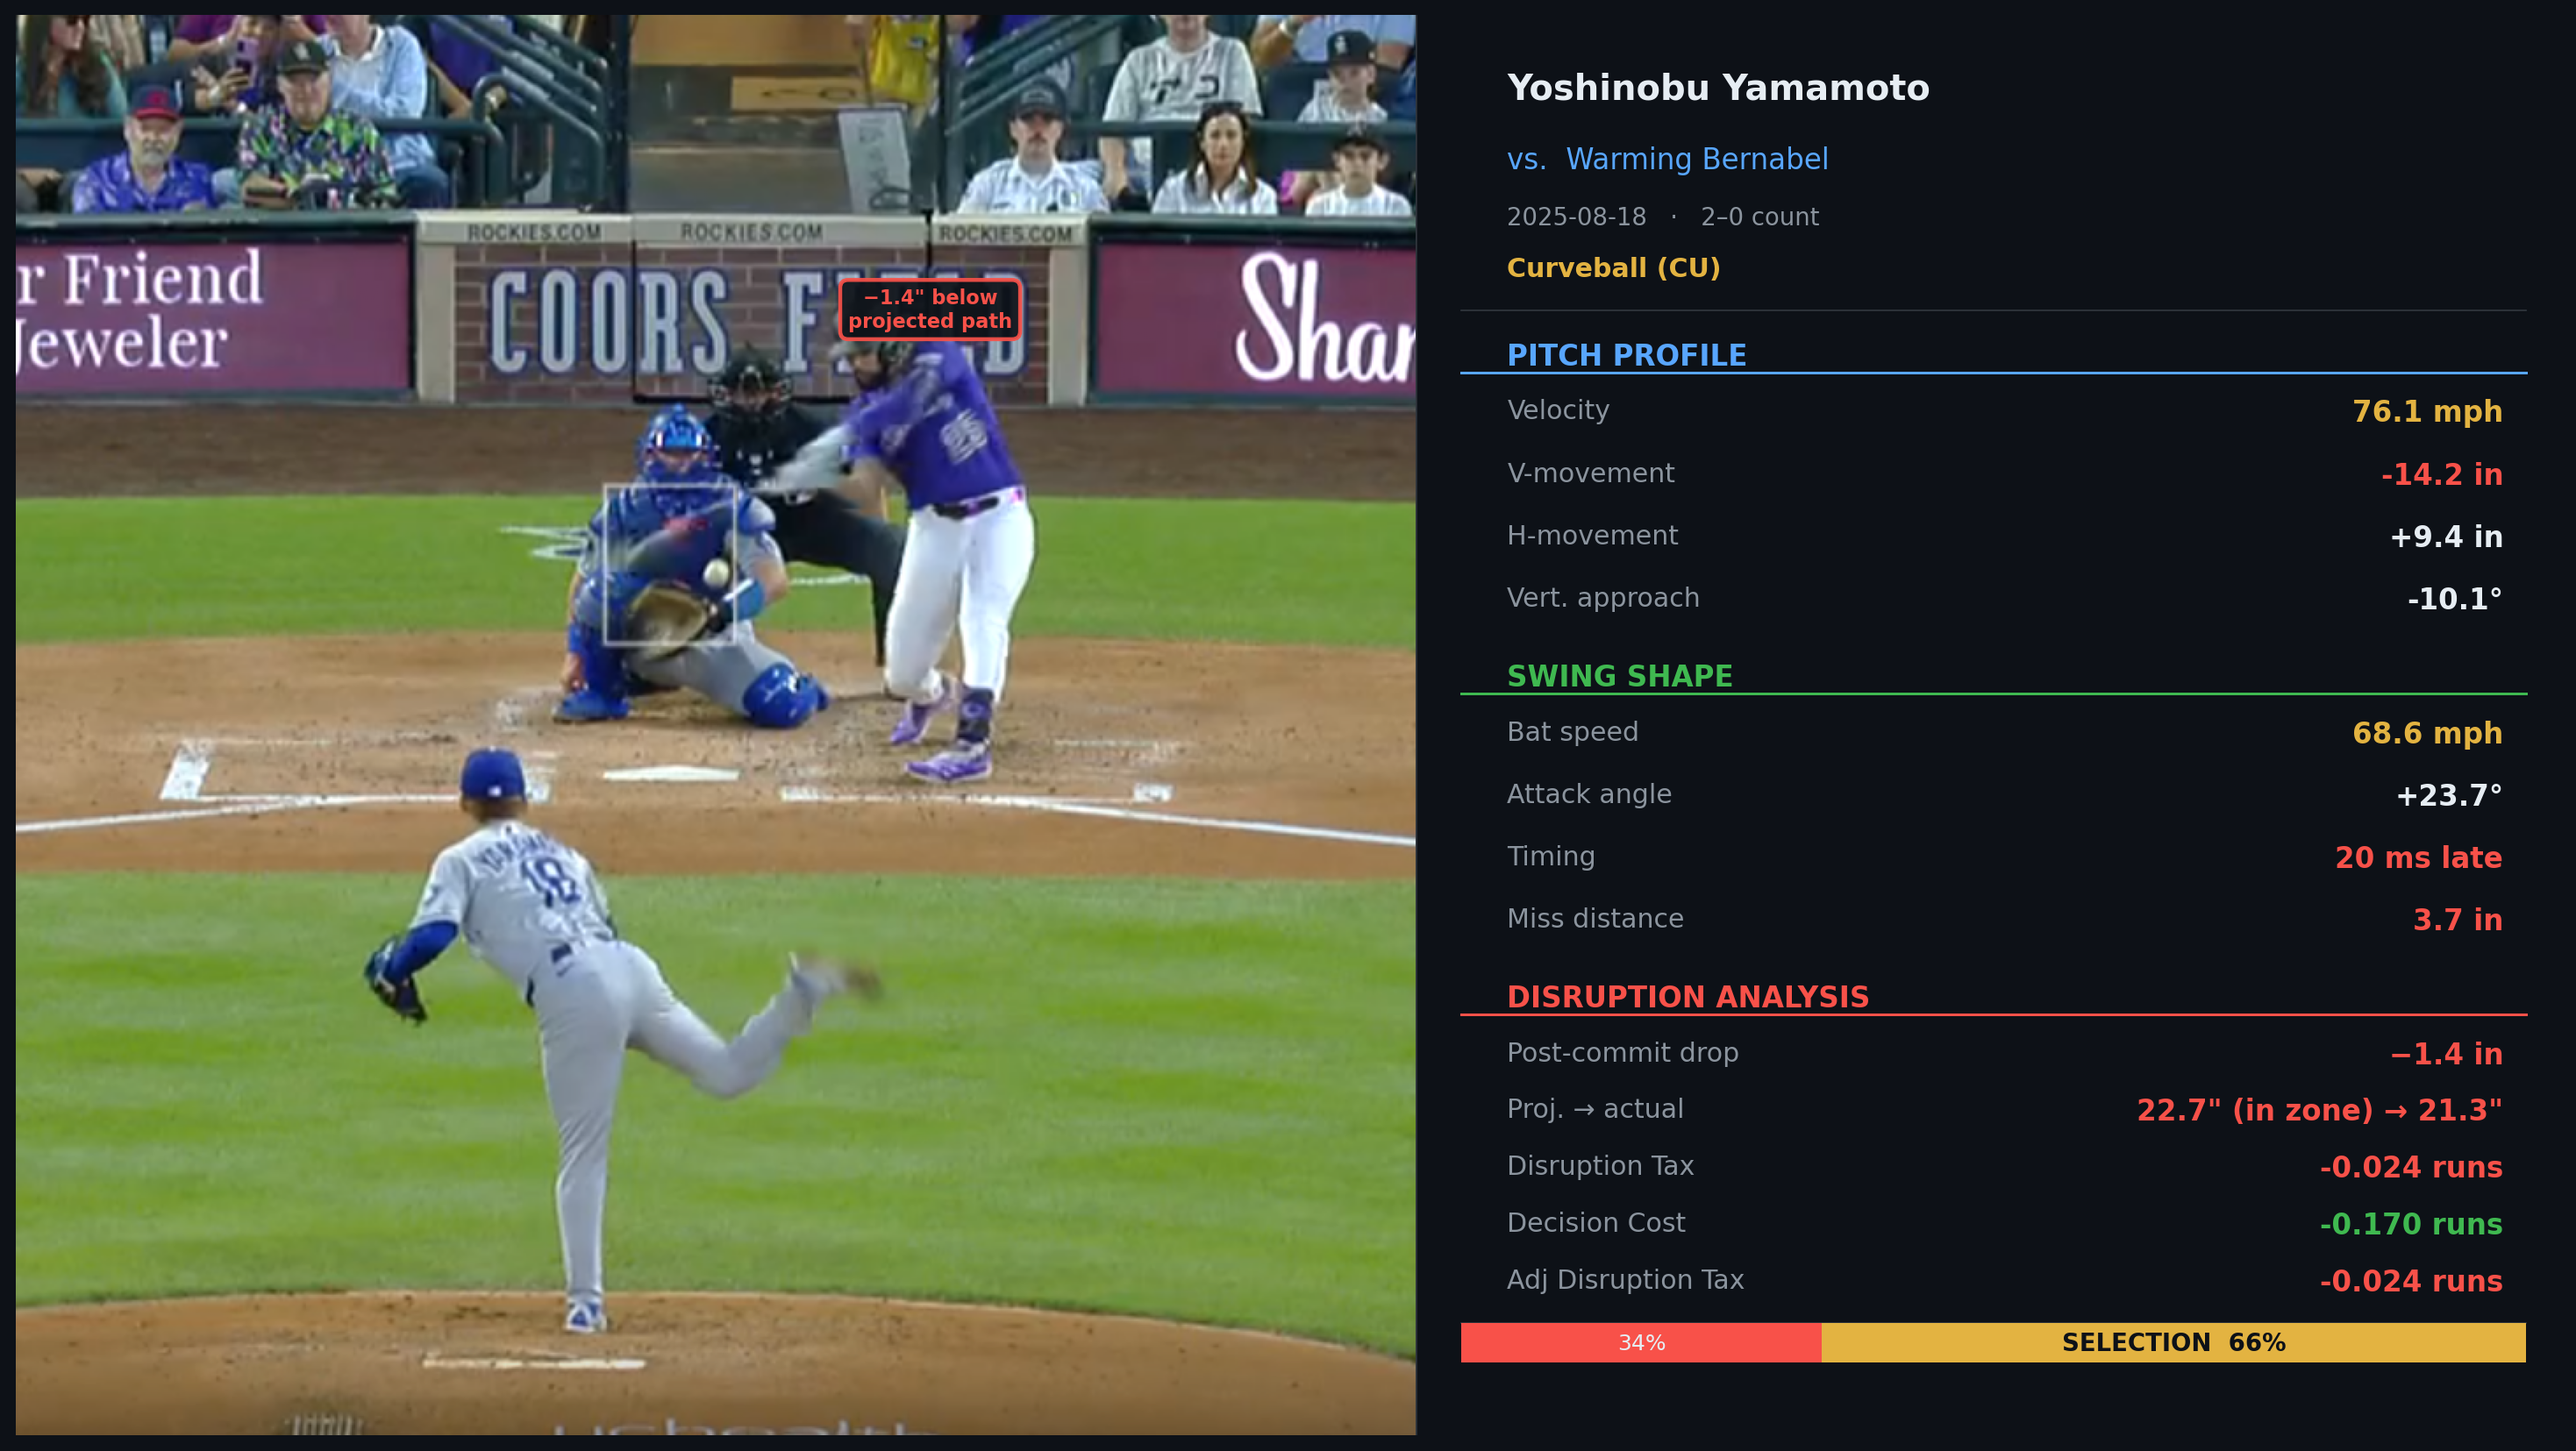
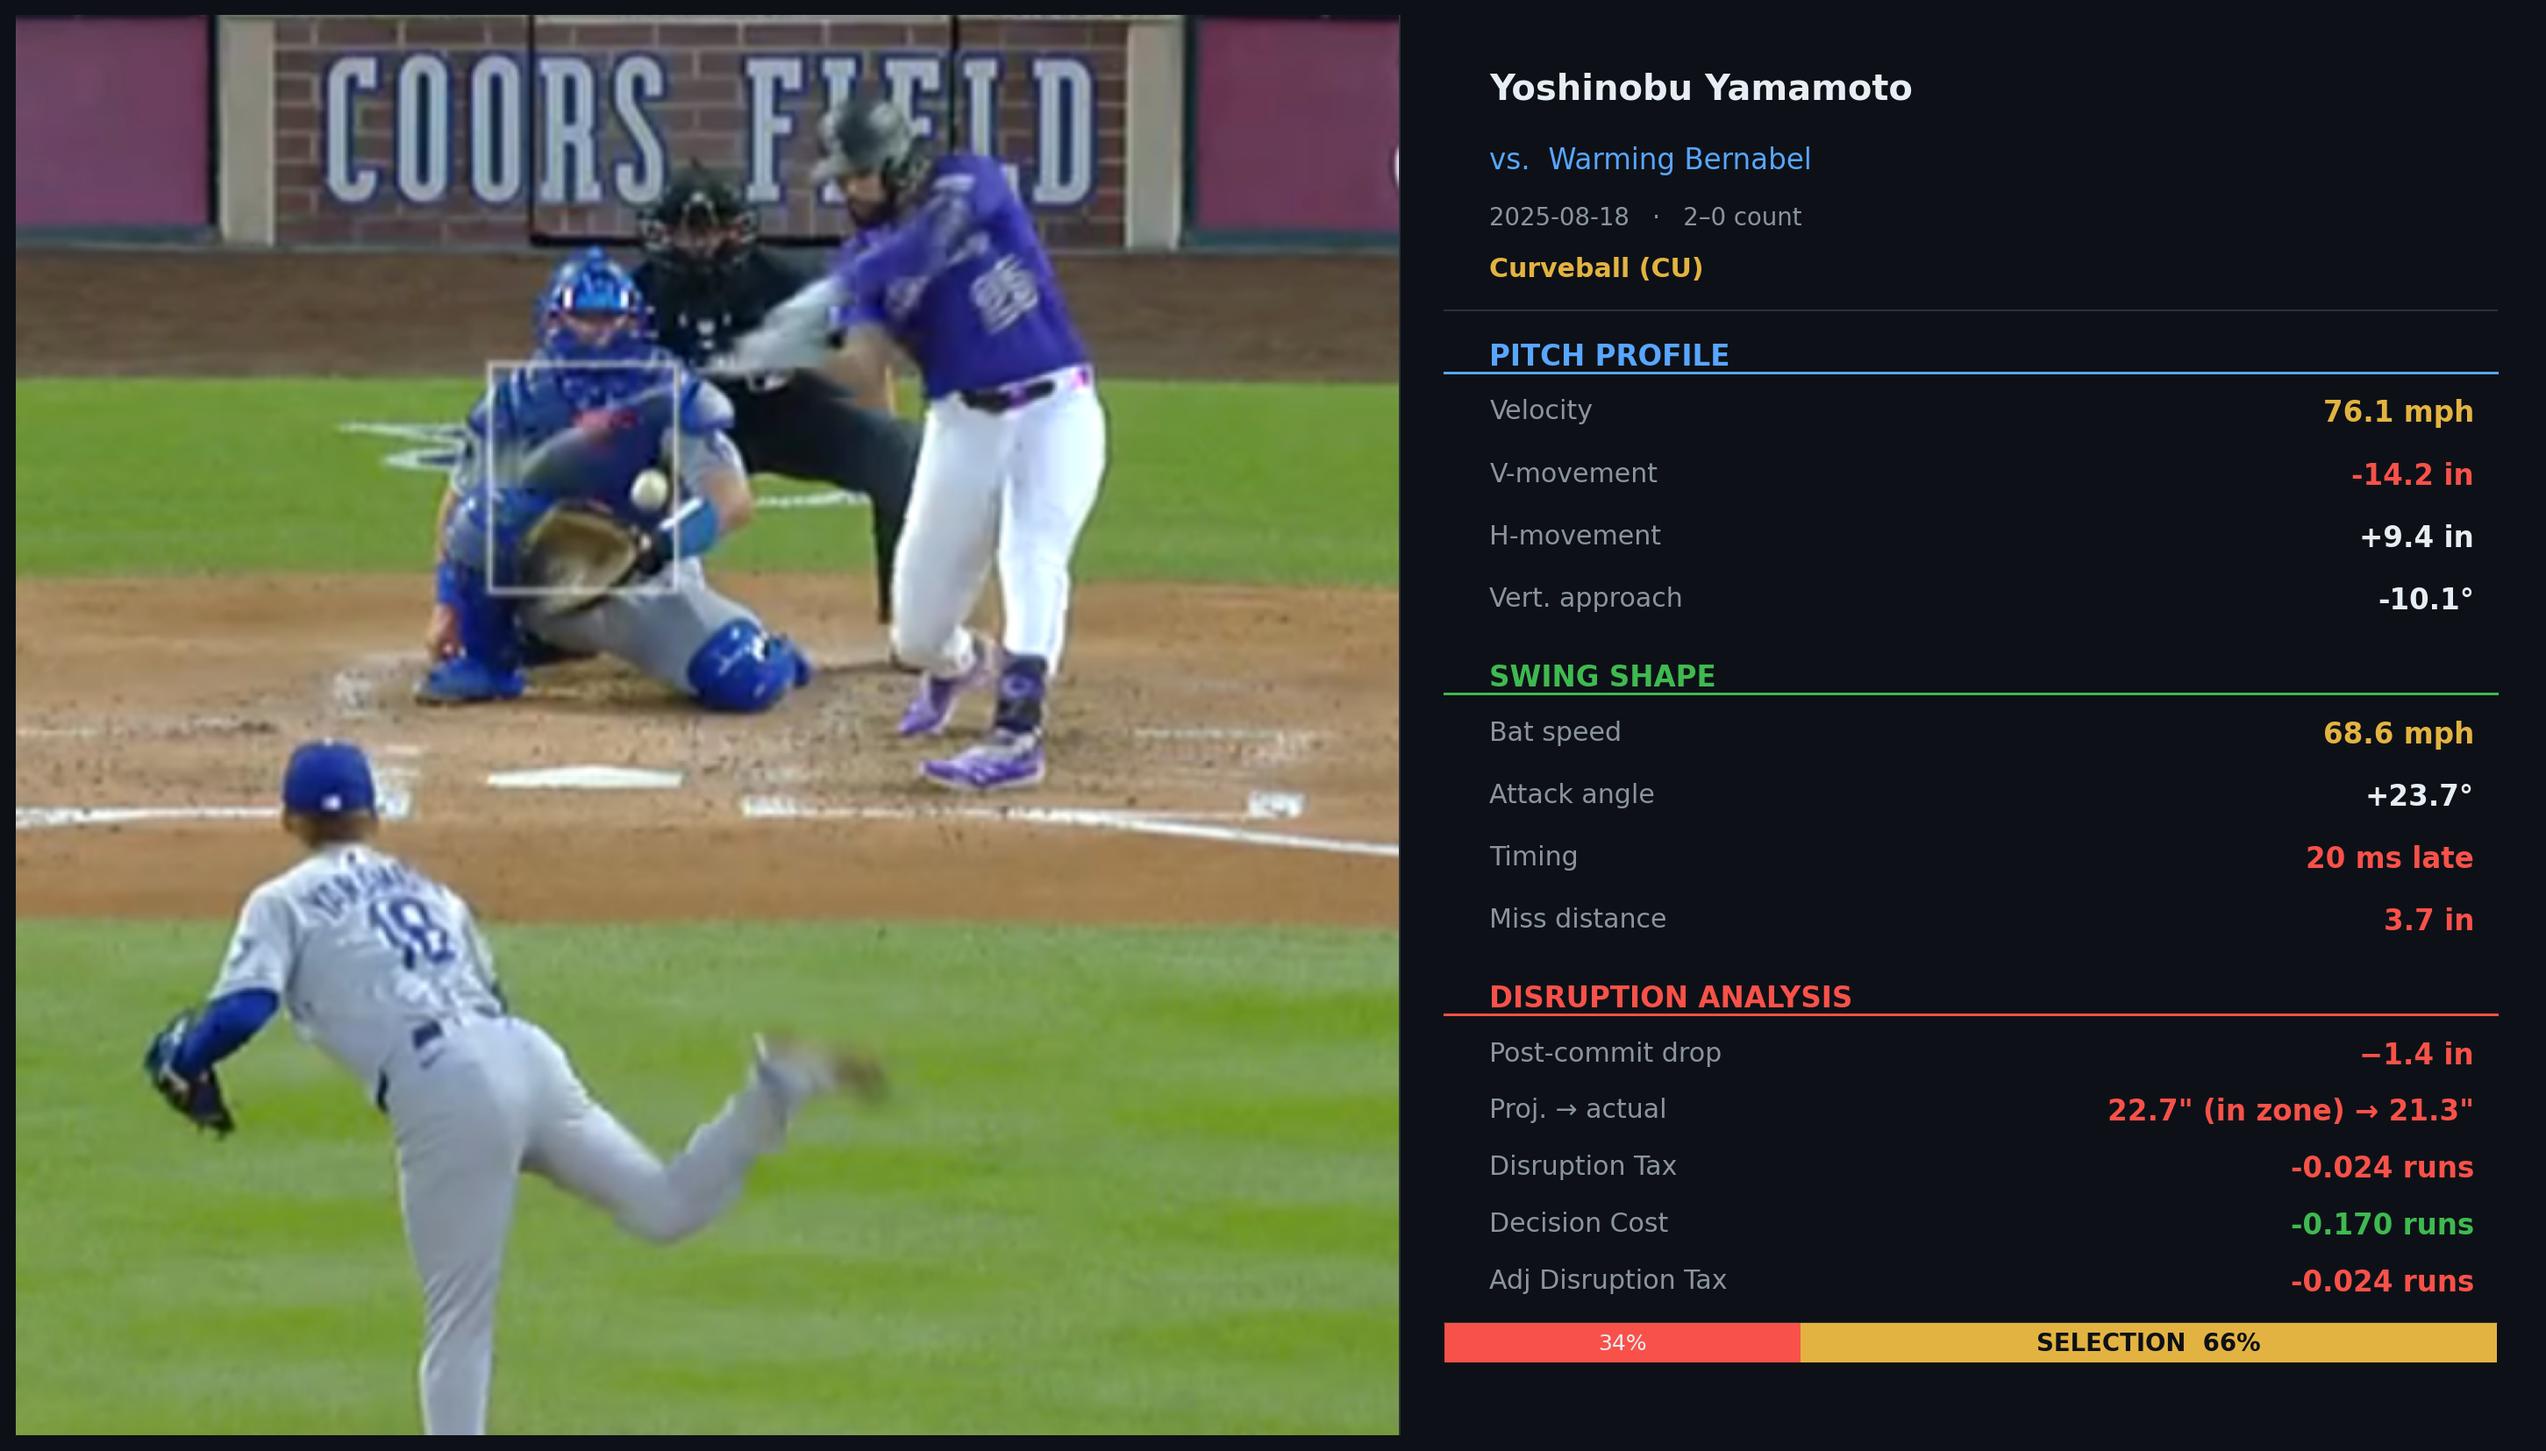
fix 3D plot whitespace; remove kinematic callout annotations; new YB screenshot
- generate_prelim.ipynb: stitch-crop to remove dead sky while preserving title
- kinematic_diagram.py: remove callout text boxes from image overlay;
  update Yamamoto/Bernabel screenshot to 2026-09-27 capture

diff --git a/src/viz/kinematic_diagram.py b/src/viz/kinematic_diagram.py
@@ -105,7 +105,7 @@ def load_pitch_metrics(
 
 def make_broadcast_annotation(
     screenshot_path, data,
-    callout_xy, callout_xytext, callout_label,
+    callout_xy=None, callout_xytext=None, callout_label=None,
     callout_color=RED,
 ):
     """Two-panel broadcast card: game screenshot (left) + dark metrics panel (right).
@@ -133,16 +133,6 @@ def make_broadcast_annotation(
     ax_img = fig.add_axes([0, 0, img_frac, 1.0])
     ax_img.imshow(img, aspect="auto", extent=[0, iw, ih, 0])
     ax_img.set_xlim(0, iw); ax_img.set_ylim(ih, 0); ax_img.axis("off")
-
-    ax_img.text(
-        callout_xytext[0], callout_xytext[1],
-        callout_label,
-        color=callout_color, fontsize=9, fontweight="bold",
-        ha="center", va="bottom",
-        bbox=dict(boxstyle="round,pad=0.4", facecolor=BG,
-                  edgecolor=callout_color, alpha=0.92, linewidth=1.8),
-        zorder=10,
-    )
 
     # ── Metrics panel ─────────────────────────────────────────────────────────
     ax_p = fig.add_axes([img_frac, 0, panel_frac, 1.0])
@@ -279,7 +269,7 @@ def make_broadcast_annotation(
 
 # ── Screenshot paths ──────────────────────────────────────────────────────────
 
-_YB_SCREENSHOT = "docs/screenshots/Screenshot 2026-06-22 100819.png"
+_YB_SCREENSHOT = "docs/screenshots/Screenshot 2026-09-27 at 10.00.02 PM.png"
 _LR_SCREENSHOT = "docs/screenshots/Screenshot 2026-06-23 102000.png"
 _HM_SCREENSHOT = "docs/screenshots/Screenshot 2026-06-23 104858.png"
 _SH_SCREENSHOT = "docs/screenshots/Screenshot 2026-06-23 105031.png"
